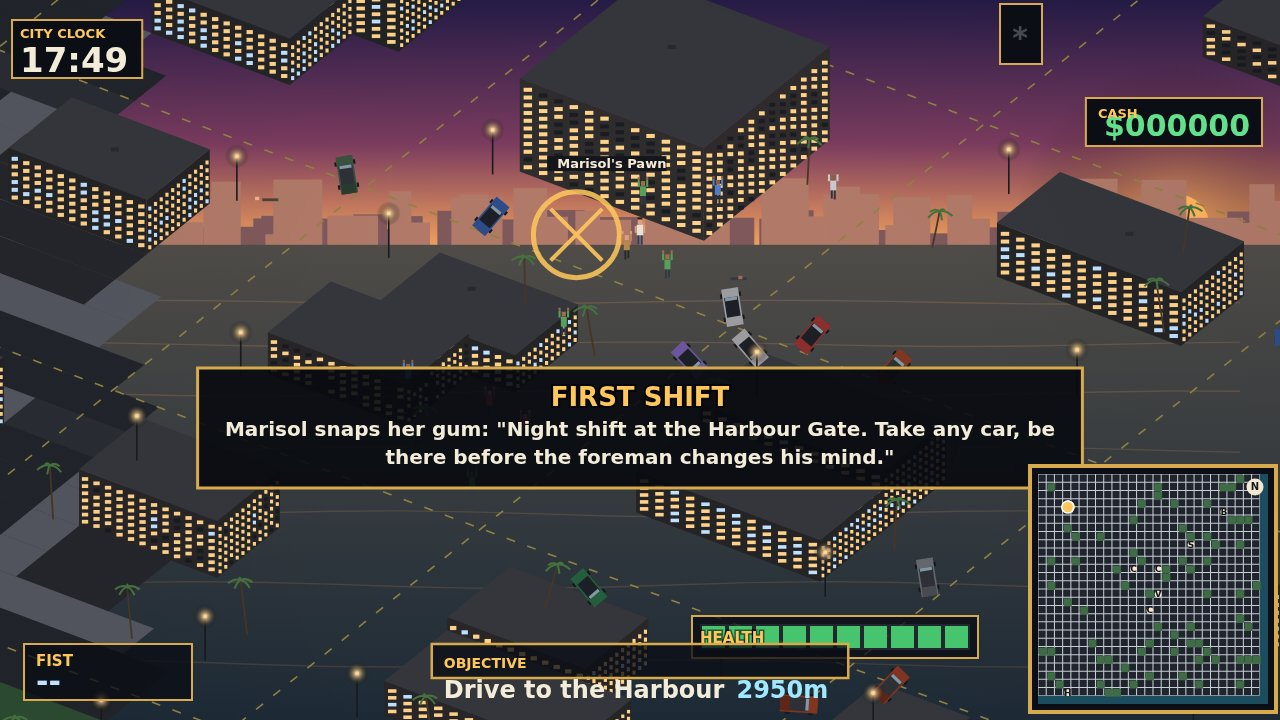
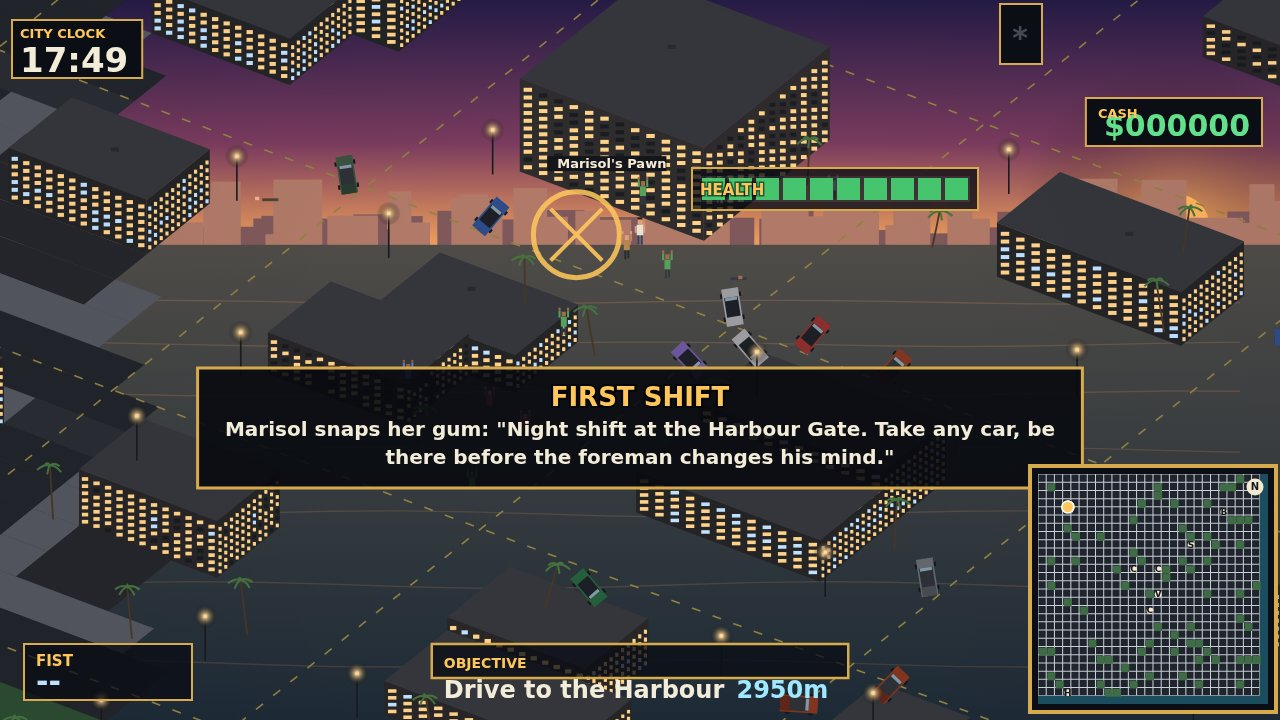
Four staged screenshots of Calvera Bay

Changed region(s): [[0.5312, 0.2139, 0.7812, 0.3056], [0.5312, 0.8556, 0.7812, 0.9167]]

diff --git a/game/src/hud.js b/game/src/hud.js
@@ -71,14 +71,16 @@ export function updateHud(hud, dt, cashNow) {
   if (hud.flash > 0) hud.flash -= dt * 2;
 }
 
-/** healthBar + armorBar: two heavy segmented meters, ~270px wide, sitting clear LEFT of the
- *  minimap plate so nothing collides at the bottom-right corner. */
+/** healthBar + armorBar: two heavy segmented meters stacked in the TOP-RIGHT column, directly
+ * under the wanted stars and the cash plate. The whole bottom row (weapon box left, objective
+ * panel centre, minimap right) stays collision-free — the previous bottom-of-screen placement
+ * put the bar straight through the objective panel's plate whenever both were on screen. */
 export function drawHealthArmorBars(ctx, health, armor) {
   const barX = VIEW.width - 320 - 260;
-  drawSegmentedBar(ctx, barX, VIEW.height - 96, 270, health / 100, 'HEALTH', GREEN, false);
+  drawSegmentedBar(ctx, barX, 176, 270, health / 100, 'HEALTH', GREEN, false);
   const armorFrac = armor / 100;
   if (armor > 0) {
-    drawSegmentedBar(ctx, barX, VIEW.height - 54, 270, armorFrac, 'ARMOR', BLUE, false);
+    drawSegmentedBar(ctx, barX, 220, 270, armorFrac, 'ARMOR', BLUE, false);
   }
 }
 
